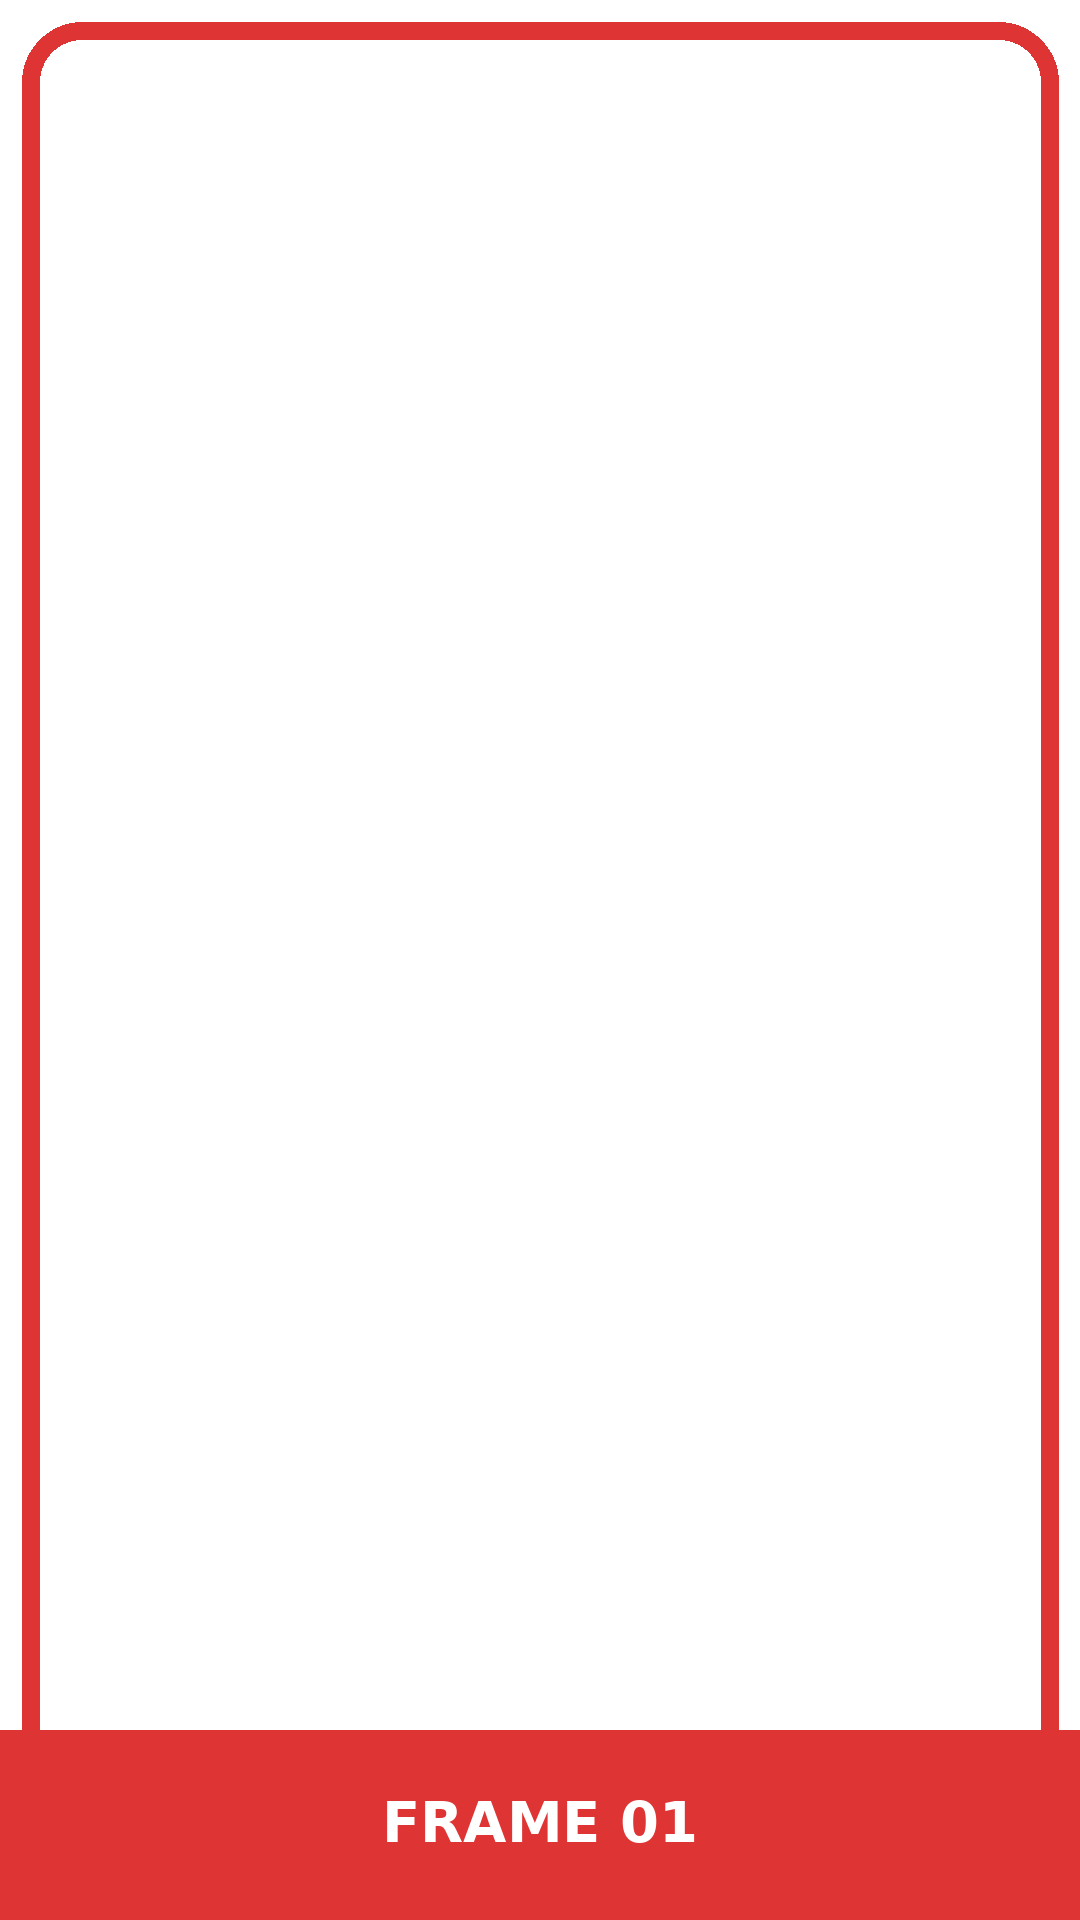
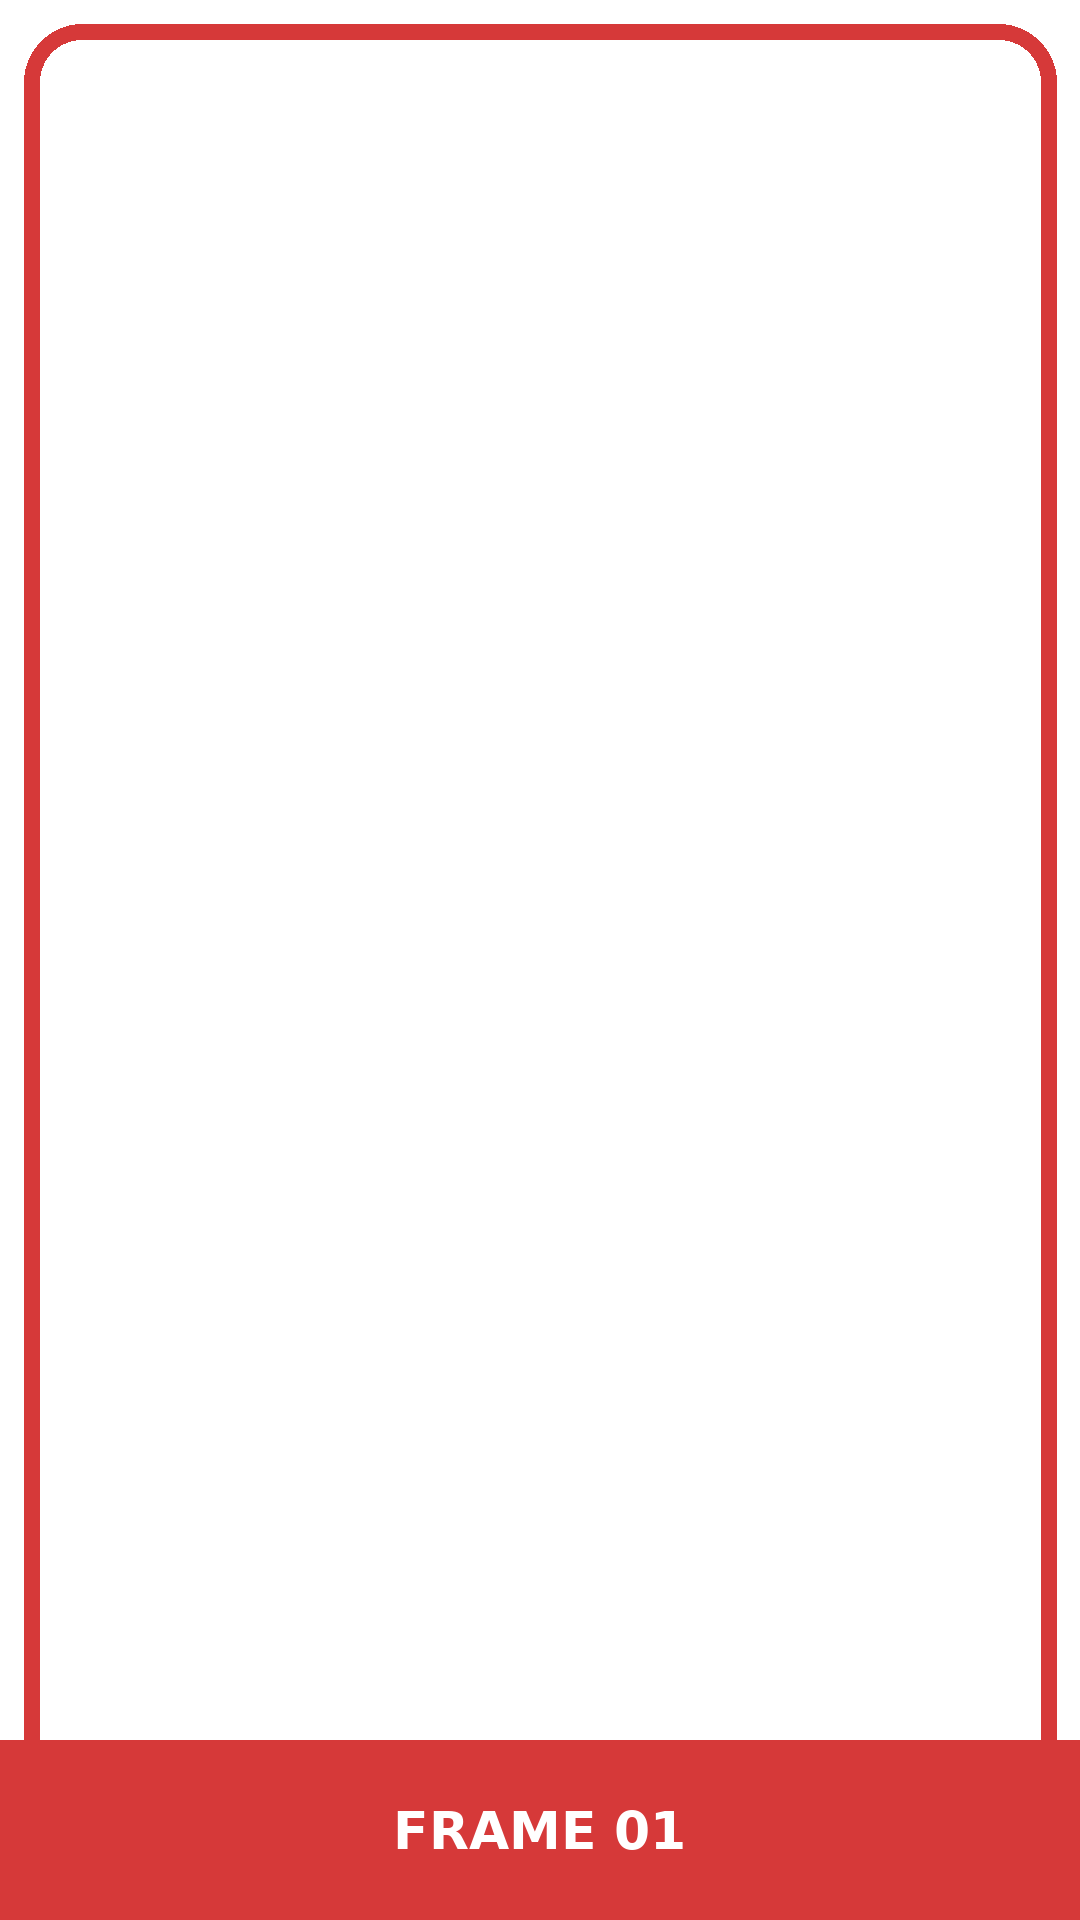
Add files via upload

Changed region(s): [[0.0, 0.875, 0.9472, 0.9062], [0.3361, 0.9375, 0.6417, 0.9688], [0.9778, 0.875, 1.0, 0.9062]]

diff --git a/ar-photo-frame/src/App.jsx b/ar-photo-frame/src/App.jsx
@@ -1,15 +1,29 @@
-import React,{useEffect,useRef,useState}from'react';import{Camera,Download,RefreshCw,RotateCcw,Sparkles}from'lucide-react';
+import React,{useEffect,useRef,useState}from'react';
+import{Camera,Download,RefreshCw,RotateCcw,Sparkles}from'lucide-react';
 const R=9/16,MAXW=4320,MAXH=7680;
-const FRAMES=[{id:'01',name:'フレーム 01',src:'/frames/frame01.png'},{id:'02',name:'フレーム 02',src:'/frames/frame02.png'},{id:'03',name:'フレーム 03',src:'/frames/frame03.png'}];
-const loadBitmap=async blob=>{if('createImageBitmap'in window)return await createImageBitmap(blob);return await new Promise((ok,ng)=>{const i=new Image(),u=URL.createObjectURL(blob);i.onload=()=>{URL.revokeObjectURL(u);ok(i)};i.onerror=e=>{URL.revokeObjectURL(u);ng(e)};i.src=u})};
-function CameraView({frame}){const v=useRef(null),c=useRef(null),s=useRef(null),f=useRef(null);const[mode,setMode]=useState('user'),[shot,setShot]=useState(null),[err,setErr]=useState(''),[res,setRes]=useState(''),[busy,setBusy]=useState(false),[method,setMethod]=useState('');
-const start=async(m=mode)=>{setErr('');s.current?.getTracks().forEach(t=>t.stop());try{const st=await navigator.mediaDevices.getUserMedia({video:{facingMode:{ideal:m},width:{ideal:3840},height:{ideal:2160}},audio:false});s.current=st;if(v.current)v.current.srcObject=st;const x=st.getVideoTracks()[0]?.getSettings?.();if(x?.width&&x?.height)setRes(`${x.width} x ${x.height}`)}catch(e){setErr('カメラを起動できません。カメラ権限を確認してください。')}};
-useEffect(()=>{start('user');return()=>s.current?.getTracks().forEach(t=>t.stop())},[]);
-const flip=async()=>{const n=mode==='user'?'environment':'user';setMode(n);await start(n)};
-const drawAndSave=(img,iw,ih,isFront,label)=>{const C=c.current,F=f.current;let sw=iw,sh=ih,sx=0,sy=0;if(sw/sh>R){sw=sh*R;sx=(iw-sw)/2}else{sh=sw/R;sy=(ih-sh)/2}let ow=Math.min(MAXW,Math.floor(sw)),oh=Math.round(ow/R);if(oh>MAXH){oh=MAXH;ow=Math.round(oh*R)}C.width=ow;C.height=oh;const x=C.getContext('2d',{alpha:false});x.imageSmoothingEnabled=true;x.imageSmoothingQuality='high';if(isFront){x.translate(ow,0);x.scale(-1,1)}x.drawImage(img,sx,sy,sw,sh,0,0,ow,oh);if(isFront)x.setTransform(1,0,0,1,0,0);if(F?.complete&&F.naturalWidth)x.drawImage(F,0,0,ow,oh);C.toBlob(b=>{if(!b){setBusy(false);return setErr('画像生成に失敗しました。')}if(shot)URL.revokeObjectURL(shot);setShot(URL.createObjectURL(b));setMethod(`${label} / ${ow} x ${oh}`);setBusy(false)},'image/jpeg',1)};
-const fallback=()=>{const V=v.current;if(!V?.videoWidth)throw new Error('video unavailable');drawAndSave(V,V.videoWidth,V.videoHeight,mode==='user','Video fallback')};
-const capture=async()=>{if(busy)return;setBusy(true);setErr('');try{const track=s.current?.getVideoTracks?.()[0];if(window.ImageCapture&&track){try{const ic=new ImageCapture(track);let settings;try{const cap=await ic.getPhotoCapabilities();settings={};if(cap?.imageWidth?.max)settings.imageWidth=cap.imageWidth.max;if(cap?.imageHeight?.max)settings.imageHeight=cap.imageHeight.max}catch{}const blob=await ic.takePhoto(settings);const bmp=await loadBitmap(blob);drawAndSave(bmp,bmp.width||bmp.naturalWidth,bmp.height||bmp.naturalHeight,mode==='user','Still photo');return}catch(e){console.warn('takePhoto fallback',e)}}fallback()}catch(e){setBusy(false);setErr('撮影に失敗しました。カメラを再読み込みしてお試しください。')}};
-const save=()=>{const a=document.createElement('a');a.href=shot;a.download=`ar-photo-${frame.id}-${Date.now()}.jpg`;a.click()};
-return <main className="app"><div className="wrap"><div className="head"><div><div className="eyebrow">AR PHOTO FRAME</div><h1 className="title">{frame.name}</h1></div><Sparkles size={18} color="#c4b5fd"/></div><div className="viewer"><div className="stage">{!shot?<><video ref={v} autoPlay playsInline muted className={mode==='user'?'mirror':''}/><img ref={f} src={frame.src} className="overlay" alt={frame.name}/></>:<img className="shot" src={shot} alt="撮影結果"/>}</div></div><div className="bottom">{!shot&&res&&<p className="resolution">Camera: {res}</p>}{shot&&method&&<p className="resolution">{method}</p>}{err&&<p className="error">{err}</p>}<canvas ref={c} className="hidden"/><div className="controls">{!shot?<><button className="btn action" onClick={flip} disabled={busy}><RotateCcw/><span>カメラ切替</span></button><button className="btn shutter action" onClick={capture} disabled={busy}><Camera/><span>撮影</span></button><button className="btn action" onClick={()=>start(mode)} disabled={busy}><RefreshCw/><span>再読み込み</span></button></>:<><button className="btn" onClick={()=>{URL.revokeObjectURL(shot);setShot(null);setMethod('')}}><RefreshCw/></button><button className="btn save" onClick={save}><Download size={18}/>画像を保存</button></>}</div></div></div></main>}
+const FRAMES=[
+{id:'01',name:'フレーム 01',src:'/frames/frame01.png'},
+{id:'02',name:'フレーム 02',src:'/frames/frame02.png'},
+{id:'03',name:'フレーム 03',src:'/frames/frame03.png'}
+];
+async function loadBitmap(blob){if('createImageBitmap'in window)return createImageBitmap(blob);return new Promise((ok,ng)=>{const img=new Image();const url=URL.createObjectURL(blob);img.onload=()=>{URL.revokeObjectURL(url);ok(img)};img.onerror=e=>{URL.revokeObjectURL(url);ng(e)};img.src=url})}
+function CameraView({frame}){
+const videoRef=useRef(null),canvasRef=useRef(null),streamRef=useRef(null),frameRef=useRef(null);
+const[mode,setMode]=useState('environment'),[shot,setShot]=useState(null),[err,setErr]=useState(''),[res,setRes]=useState(''),[busy,setBusy]=useState(false),[method,setMethod]=useState('');
+async function start(m=mode){setErr('');streamRef.current?.getTracks().forEach(t=>t.stop());try{const st=await navigator.mediaDevices.getUserMedia({video:{facingMode:{ideal:m},width:{ideal:3840},height:{ideal:2160}},audio:false});streamRef.current=st;if(videoRef.current)videoRef.current.srcObject=st;const settings=st.getVideoTracks()[0]?.getSettings?.();if(settings?.width&&settings?.height)setRes(`${settings.width} x ${settings.height}`)}catch(e){setErr('カメラを起動できません。カメラ権限を確認してください。')}}
+useEffect(()=>{start('environment');return()=>streamRef.current?.getTracks().forEach(t=>t.stop())},[]);
+async function flip(){const next=mode==='user'?'environment':'user';setMode(next);await start(next)}
+function drawAndSave(img,iw,ih,isFront,label){const C=canvasRef.current,F=frameRef.current;let sw=iw,sh=ih,sx=0,sy=0;if(sw/sh>R){sw=sh*R;sx=(iw-sw)/2}else{sh=sw/R;sy=(ih-sh)/2}let ow=Math.min(MAXW,Math.floor(sw)),oh=Math.round(ow/R);if(oh>MAXH){oh=MAXH;ow=Math.round(oh*R)}C.width=ow;C.height=oh;const x=C.getContext('2d',{alpha:false});x.imageSmoothingEnabled=true;x.imageSmoothingQuality='high';if(isFront){x.translate(ow,0);x.scale(-1,1)}x.drawImage(img,sx,sy,sw,sh,0,0,ow,oh);if(isFront)x.setTransform(1,0,0,1,0,0);if(F?.complete&&F.naturalWidth)x.drawImage(F,0,0,ow,oh);C.toBlob(blob=>{if(!blob){setBusy(false);setErr('画像生成に失敗しました。');return}if(shot)URL.revokeObjectURL(shot);setShot(URL.createObjectURL(blob));setMethod(`${label} / ${ow} x ${oh}`);setBusy(false)},'image/jpeg',1)}
+function fallback(){const V=videoRef.current;if(!V?.videoWidth)throw new Error('video unavailable');drawAndSave(V,V.videoWidth,V.videoHeight,mode==='user','Video fallback')}
+async function capture(){if(busy)return;setBusy(true);setErr('');try{const track=streamRef.current?.getVideoTracks?.()[0];if(window.ImageCapture&&track){try{const ic=new ImageCapture(track);let options={};try{const cap=await ic.getPhotoCapabilities();if(cap?.imageWidth?.max)options.imageWidth=cap.imageWidth.max;if(cap?.imageHeight?.max)options.imageHeight=cap.imageHeight.max}catch{}const blob=await ic.takePhoto(options);const bmp=await loadBitmap(blob);drawAndSave(bmp,bmp.width||bmp.naturalWidth,bmp.height||bmp.naturalHeight,mode==='user','Still photo');return}catch(e){console.warn('takePhoto fallback',e)}}fallback()}catch(e){setBusy(false);setErr('撮影に失敗しました。再読み込みしてお試しください。')}}
+function save(){const a=document.createElement('a');a.href=shot;a.download=`ar-photo-${frame.id}-${Date.now()}.jpg`;a.click()}
+return <main className="app"><div className="wrap"><div className="head"><div><div className="eyebrow">AR PHOTO FRAME</div><h1 className="title">{frame.name}</h1></div><Sparkles size={18} color="#c4b5fd"/></div><div className="viewer"><div className="stage">{!shot?<><video ref={videoRef} autoPlay playsInline muted className={mode==='user'?'mirror':''}/><img ref={frameRef} src={frame.src} className="overlay" alt={frame.name}/></>:<img className="shot" src={shot} alt="撮影結果"/>}</div></div><div className="bottom">{!shot&&res&&<p className="resolution">Camera: {res}</p>}{shot&&method&&<p className="resolution">{method}</p>}{err&&<p className="error">{err}</p>}<canvas ref={canvasRef} className="hidden"/><div className="controls">{!shot?<><button className="btn action" onClick={flip} disabled={busy}><RotateCcw/><span>カメラ切替</span></button><button className="btn shutter action" onClick={capture} disabled={busy}><Camera/><span>撮影</span></button><button className="btn action" onClick={()=>start(mode)} disabled={busy}><RefreshCw/><span>再読み込み</span></button></>:<><button className="btn" onClick={()=>{URL.revokeObjectURL(shot);setShot(null);setMethod('')}}><RefreshCw/></button><button className="btn save" onClick={save}><Download size={18}/>画像を保存</button></>}</div></div></div></main>;
 }
-export default function App(){const params=new URLSearchParams(window.location.search);const requested=params.get('frame');const direct=FRAMES.find(x=>x.id===requested);const[selected,setSelected]=useState(direct||null);const choose=fr=>{const u=new URL(window.location.href);u.searchParams.set('frame',fr.id);window.history.replaceState({},'',u);setSelected(fr)};if(selected)return <CameraView frame={selected}/>;return <main className="selector"><div className="selector-inner"><h1>フォトフレームを選択</h1><p>好きなデザインを選ぶと、そのまま撮影画面が開きます。</p><div className="frame-grid">{FRAMES.map(fr=><button key={fr.id} className="frame-card" onClick={()=>choose(fr)}><div className="thumb"><img src={fr.src} alt={fr.name}/></div><span className="frame-name">{fr.name}</span><span className="direct">?frame={fr.id}</span></button>)}</div></div></main>}
+export default function App(){
+const requested=new URLSearchParams(window.location.search).get('frame');
+const direct=FRAMES.find(fr=>fr.id===requested)||null;
+const[selected,setSelected]=useState(direct);
+function choose(fr){const u=new URL(window.location.href);u.searchParams.set('frame',fr.id);window.history.replaceState({},'',u);setSelected(fr)}
+if(selected)return <CameraView frame={selected}/>;
+return <main className="selector"><div className="selector-inner"><h1>フォトフレームを選択</h1><p>好きなデザインを選択してください。</p><div className="frame-grid">{FRAMES.map(fr=><button key={fr.id} className="frame-card" onClick={()=>choose(fr)}><div className="thumb"><img src={fr.src} alt={fr.name}/></div><span className="frame-name">{fr.name}</span></button>)}</div></div></main>;
+}

diff --git a/ar-photo-frame/src/index.css b/ar-photo-frame/src/index.css
@@ -1,1 +1,1 @@
-*{box-sizing:border-box}html,body,#root{margin:0;min-height:100%;font-family:system-ui,-apple-system,"Segoe UI",sans-serif;background:#020617;color:#fff}button{font:inherit}body{overscroll-behavior:none}.app{height:100svh;padding:calc(env(safe-area-inset-top) + 6px) 12px calc(env(safe-area-inset-bottom) + 8px);display:flex;justify-content:center;overflow:hidden}.wrap{width:min(100%,430px);height:100%;display:flex;flex-direction:column;min-height:0}.head{flex:0 0 auto;display:flex;justify-content:space-between;align-items:center;margin:0 2px 6px}.eyebrow{font-size:9px;letter-spacing:.16em;color:#c4b5fd}.title{font-size:16px;margin:1px 0 0}.viewer{flex:1 1 auto;min-height:0;display:flex;align-items:center;justify-content:center}.stage{position:relative;overflow:hidden;border-radius:20px;background:#000;box-shadow:0 10px 32px #0007;aspect-ratio:9/16;height:100%;max-height:100%;max-width:100%;width:auto}.stage video,.stage .shot,.overlay{position:absolute;inset:0;width:100%;height:100%;object-fit:cover}.overlay{z-index:2;pointer-events:none}.mirror{transform:scaleX(-1)}.bottom{flex:0 0 auto;padding-top:6px}.resolution{text-align:center;color:#cbd5e1;font-size:10px;line-height:1.2;margin:0 0 5px}.controls{display:grid;grid-template-columns:repeat(3,1fr);gap:10px}.btn{border:0;border-radius:16px;min-height:54px;background:#ffffff18;color:white;display:flex;align-items:center;justify-content:center}.btn:disabled{opacity:.55}.action{flex-direction:column;gap:3px}.action span{font-size:11px;font-weight:600;line-height:1.05;white-space:nowrap}.shutter{background:#fff;color:#020617}.shutter.action span{color:#020617}.save{grid-column:span 2;background:#8b5cf6;font-weight:700;gap:8px}.error{text-align:center;font-size:11px;background:#ef444426;color:#fecaca;padding:7px;border-radius:11px;margin:5px 0}.hidden{display:none}.selector{min-height:100svh;background:#020617;color:#fff;padding:calc(env(safe-area-inset-top) + 24px) 18px calc(env(safe-area-inset-bottom) + 24px)}.selector-inner{max-width:760px;margin:auto}.selector h1{font-size:24px;margin:0 0 6px;text-align:center}.selector p{color:#94a3b8;text-align:center;margin:0 0 22px;font-size:13px}.frame-grid{display:grid;grid-template-columns:repeat(2,minmax(0,1fr));gap:14px}.frame-card{appearance:none;border:1px solid #ffffff18;background:#0f172a;color:#fff;border-radius:18px;padding:10px;box-shadow:0 8px 24px #0005}.thumb{position:relative;aspect-ratio:9/16;border-radius:13px;overflow:hidden;background:linear-gradient(160deg,#334155,#0f172a)}.thumb img{position:absolute;inset:0;width:100%;height:100%;object-fit:contain}.frame-name{display:block;font-size:13px;font-weight:700;margin-top:9px}.direct{font-size:10px;color:#94a3b8;display:block;margin-top:3px}@media(max-height:760px){.head{display:none}.btn{min-height:48px}.bottom{padding-top:5px}.resolution{font-size:9px}}@media(min-width:680px){.frame-grid{grid-template-columns:repeat(3,minmax(0,1fr))}}
+*{box-sizing:border-box}html,body,#root{margin:0;min-height:100%;font-family:system-ui,-apple-system,"Segoe UI",sans-serif;background:#020617;color:#fff}button{font:inherit}body{overscroll-behavior:none}.app{height:100svh;padding:calc(env(safe-area-inset-top) + 6px) 12px calc(env(safe-area-inset-bottom) + 8px);display:flex;justify-content:center;overflow:hidden}.wrap{width:min(100%,430px);height:100%;display:flex;flex-direction:column;min-height:0}.head{flex:none;display:flex;justify-content:space-between;align-items:center;margin:0 2px 6px}.eyebrow{font-size:9px;letter-spacing:.16em;color:#c4b5fd}.title{font-size:16px;margin:1px 0 0}.viewer{flex:1;min-height:0;display:flex;align-items:center;justify-content:center}.stage{position:relative;overflow:hidden;border-radius:20px;background:#000;box-shadow:0 10px 32px #0007;aspect-ratio:9/16;height:100%;max-height:100%;max-width:100%;width:auto}.stage video,.stage .shot,.overlay{position:absolute;inset:0;width:100%;height:100%;object-fit:cover}.overlay{z-index:2;pointer-events:none}.mirror{transform:scaleX(-1)}.bottom{flex:none;padding-top:6px}.resolution{text-align:center;color:#cbd5e1;font-size:10px;margin:0 0 5px}.controls{display:grid;grid-template-columns:repeat(3,1fr);gap:10px}.btn{border:0;border-radius:16px;min-height:54px;background:#ffffff18;color:#fff;display:flex;align-items:center;justify-content:center}.btn:disabled{opacity:.55}.action{flex-direction:column;gap:3px}.action span{font-size:11px;font-weight:600}.shutter{background:#fff;color:#020617}.save{grid-column:span 2;background:#8b5cf6;font-weight:700;gap:8px}.error{text-align:center;font-size:11px;background:#ef444426;color:#fecaca;padding:7px;border-radius:11px;margin:5px 0}.hidden{display:none}.selector{min-height:100svh;padding:calc(env(safe-area-inset-top) + 24px) 18px calc(env(safe-area-inset-bottom) + 24px)}.selector-inner{max-width:760px;margin:auto}.selector h1{text-align:center;font-size:24px;margin:0 0 6px}.selector p{text-align:center;color:#94a3b8;font-size:13px;margin:0 0 22px}.frame-grid{display:grid;grid-template-columns:repeat(2,minmax(0,1fr));gap:14px}.frame-card{border:1px solid #ffffff18;background:#0f172a;color:#fff;border-radius:18px;padding:10px}.thumb{position:relative;aspect-ratio:9/16;border-radius:13px;overflow:hidden;background:#111827}.thumb img{position:absolute;inset:0;width:100%;height:100%;object-fit:contain}.frame-name{display:block;font-size:13px;font-weight:700;margin-top:9px}@media(min-width:680px){.frame-grid{grid-template-columns:repeat(3,minmax(0,1fr))}}@media(max-height:760px){.head{display:none}.btn{min-height:48px}}

diff --git a/ar-photo-frame/index.html b/ar-photo-frame/index.html
@@ -1,1 +1,1 @@
-<!doctype html><html lang="ja"><head><meta charset="UTF-8"/><meta name="viewport" content="width=device-width,initial-scale=1.0,viewport-fit=cover"/><meta name="theme-color" content="#020617"/><title>ARフォトフレーム</title></head><body><div id="root"></div><script type="module" src="/src/main.jsx"></script></body></html>
+<!doctype html><html lang="ja"><head><meta charset="UTF-8"><meta name="viewport" content="width=device-width,initial-scale=1,viewport-fit=cover"><meta name="theme-color" content="#020617"><title>ARフォトフレーム</title></head><body><div id="root"></div><script type="module" src="/src/main.jsx"></script></body></html>

diff --git a/ar-photo-frame/src/main.jsx b/ar-photo-frame/src/main.jsx
@@ -1,1 +1,5 @@
-import React from 'react';import ReactDOM from 'react-dom/client';import App from './App.jsx';import './index.css';ReactDOM.createRoot(document.getElementById('root')).render(<React.StrictMode><App/></React.StrictMode>);
+import React from 'react';
+import ReactDOM from 'react-dom/client';
+import App from './App.jsx';
+import './index.css';
+ReactDOM.createRoot(document.getElementById('root')).render(<React.StrictMode><App /></React.StrictMode>);
